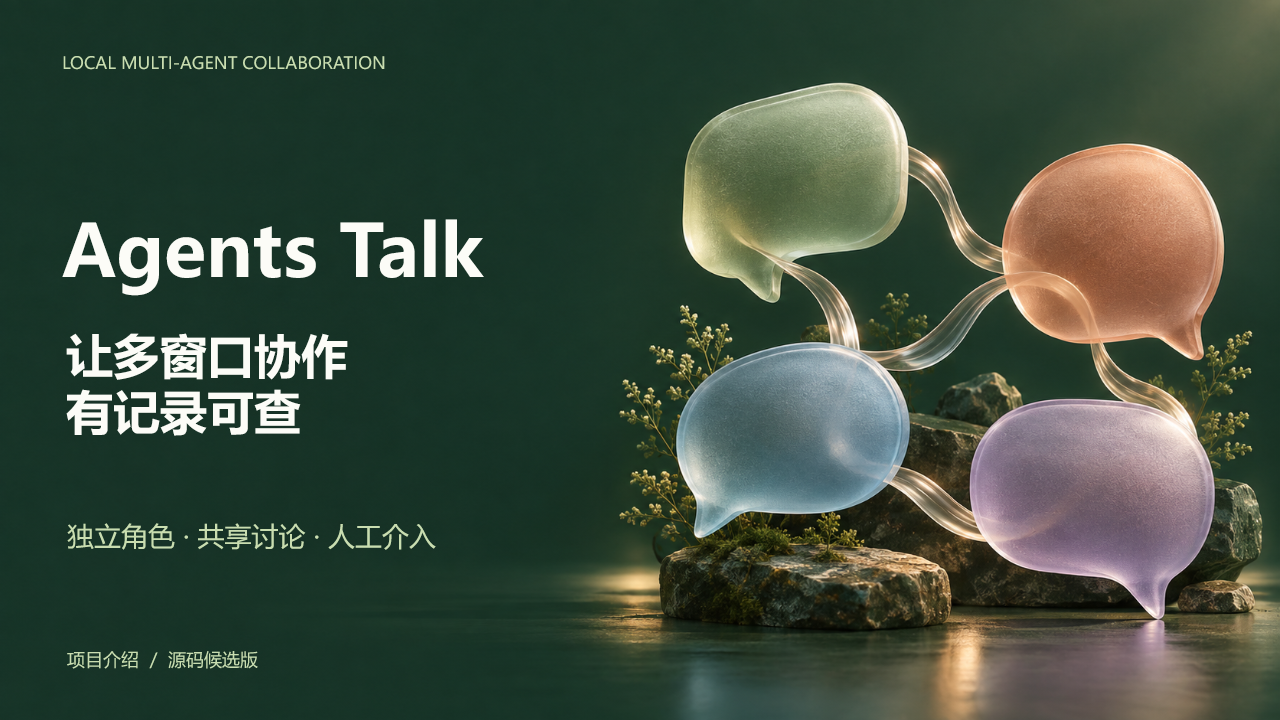
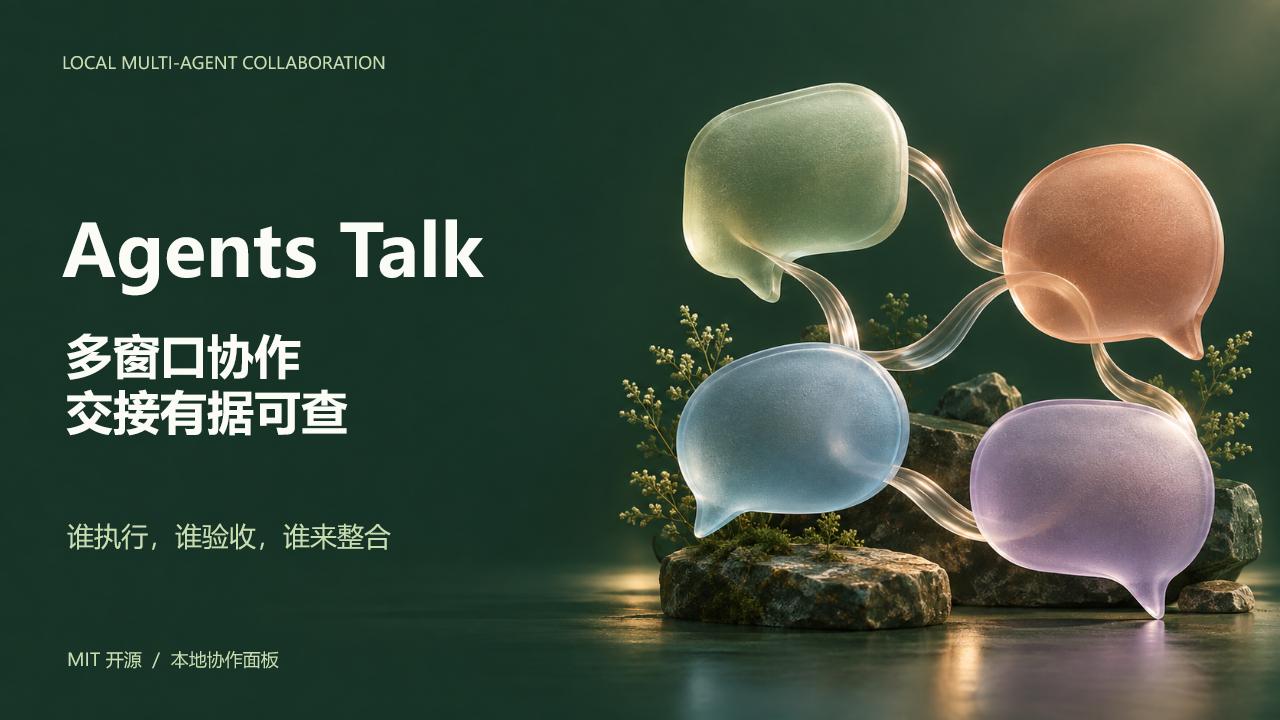
Prepare MIT public release with concise deck and reproducible promo video

Changed region(s): [[0.0312, 0.4583, 0.2812, 0.6111], [0.0312, 0.7028, 0.3438, 0.7639], [0.0625, 0.8861, 0.2188, 0.9472]]

diff --git a/docs/promo/timeline.js b/docs/promo/timeline.js
@@ -1,0 +1,43 @@
+/* Deterministic motion design. Real screenshots contain isolated demo data only. */
+'use strict';
+const canvas=document.querySelector('canvas'), main=canvas.getContext('2d');
+const W=1920,H=1080,DURATION=54;
+const C={white:'#edfff5',mint:'#baffd9',dim:'#94b8aa',ink:'#061712',blue:'#a2c8ff',purple:'#d9bfff'};
+const assets={};
+const clamp=v=>Math.max(0,Math.min(1,v));
+const smooth=v=>{v=clamp(v);return v*v*v*(v*(v*6-15)+10);};
+function text(g,value,x,y,size=40,color=C.white,weight=400){g.font=`${weight} ${size}px "Microsoft YaHei",sans-serif`;g.fillStyle=color;g.textBaseline='top';g.fillText(value,x,y);}
+function reveal(g,t,delay,fn){const a=smooth((t-delay)/1.1);g.save();g.globalAlpha*=a;g.translate(0,48*(1-a));fn();g.restore();}
+function base(g,t){g.fillStyle=C.ink;g.fillRect(0,0,W,H);const a=g.createRadialGradient(1420+80*Math.sin(t/6),320,60,1100,500,1150);a.addColorStop(0,'#164735');a.addColorStop(.55,'#0b241c');a.addColorStop(1,C.ink);g.fillStyle=a;g.fillRect(0,0,W,H);
+ g.save();g.strokeStyle='#89eabc';g.lineWidth=1;g.globalAlpha=.08;for(let i=0;i<15;i++){g.beginPath();g.ellipse(1480,420,180+i*60,100+i*36,-.42+t*.003,0,Math.PI*2);g.stroke();}g.restore();
+ for(let i=0;i<34;i++){g.fillStyle=`rgba(190,255,218,${.1+.12*(.5+.5*Math.sin(t+i))})`;g.beginPath();g.arc((i*137.8+73)%W,70+(i*79.3+t*(2+i%3))%940,1.2,0,7);g.fill();}
+}
+function brand(g,t,label){text(g,'AGENTS TALK',96,60,25,C.mint,700);text(g,label,1430,62,22,C.dim);g.fillStyle='#7dccaa';g.globalAlpha=.23;g.fillRect(96,998,1728,1);g.globalAlpha=1;g.fillStyle=C.mint;g.fillRect(96,998,1728*clamp(t/DURATION),2);}
+function footer(g,value){text(g,value,96,1024,21,C.dim);}
+function art(g,t,opacity=.55){g.save();g.globalAlpha*=opacity;const z=1.02+.025*Math.sin(t/8);g.translate(W/2,H/2);g.scale(z,z);g.drawImage(assets.art,-W/2,-H/2,W,H);g.restore();const v=g.createLinearGradient(0,0,W,0);v.addColorStop(0,'rgba(3,19,13,.78)');v.addColorStop(.56,'rgba(3,19,13,.35)');v.addColorStop(1,'rgba(3,19,13,.02)');g.fillStyle=v;g.fillRect(0,0,W,H);}
+function screen(g,img,x,y,w,h,t,crop){g.save();g.shadowColor='rgba(0,0,0,.6)';g.shadowBlur=65;g.shadowOffsetY=28;g.fillStyle='#ebf0e5';g.beginPath();g.roundRect(x,y,w,h,22);g.fill();g.shadowColor='transparent';g.clip();const z=1+.018*smooth(t/7);g.translate(x+w/2,y+h/2);g.scale(z,z);const c=crop||[0,0,img.width,img.height];g.drawImage(img,...c,-w/2,-h/2,w,h);g.restore();g.save();g.strokeStyle='rgba(194,255,220,.3)';g.lineWidth=2;g.beginPath();g.roundRect(x,y,w,h,22);g.stroke();g.restore();}
+function heading(g,t,tag,lines,sub){reveal(g,t,0,()=>text(g,tag,96,195,27,C.mint));lines.forEach((s,i)=>reveal(g,t,.12+i*.17,()=>text(g,s,96,262+i*90,72,C.white,700)));if(sub)reveal(g,t,.55,()=>text(g,sub,96,465,29,C.dim));}
+function row(g,t,delay,num,label,body,y,color=C.mint){reveal(g,t,delay,()=>{text(g,num,98,y,22,color);text(g,label,152,y-9,38,C.white,700);text(g,body,152,y+49,27,C.dim);});}
+const scenes=[
+ {start:0,end:6,draw(g,t){base(g,t);art(g,t,.38);brand(g,t,'LOCAL COLLABORATION');reveal(g,t,.1,()=>text(g,'开了多个 AI 窗口，',96,288,91,C.white,700));reveal(g,t,.55,()=>text(g,'谁在负责交接？',96,408,110,C.mint,700));reveal(g,t,1.7,()=>text(g,'任务重复分配',104,688,36,C.white));reveal(g,t,2.25,()=>text(g,'上下文来回复述',590,688,36,C.white));reveal(g,t,2.8,()=>text(g,'交付缺少验收',1136,688,36,C.white));footer(g,'面向多窗口协作的分工、上下文与验收问题');}},
+ {start:6,end:12,draw(g,t){base(g,t+6);brand(g,t+6,'ONE SHARED BOARD');reveal(g,t,0,()=>text(g,'Agents Talk',96,206,100,C.white,700));reveal(g,t,.25,()=>text(g,'一个本地协作面板',100,345,48,C.mint,700));reveal(g,t,.65,()=>text(g,'把共享过程留下来',100,440,34,C.dim));reveal(g,t,.4,()=>screen(g,assets.dashboard,790,178,1034,678,t));reveal(g,t,1,()=>text(g,'Codex   Claude Code',104,620,30,C.white));reveal(g,t,1.25,()=>text(g,'Reasonix   ZCode',104,675,30,C.white));footer(g,'实际空白会话界面，不读取原生客户端私密对话');}},
+ {start:12,end:20,draw(g,t){base(g,t+12);brand(g,t+12,'01 / INDEPENDENT ROLES');heading(g,t,'同一客户端，多窗口并发',['角色分开','责任明确']);row(g,t,.7,'01','主导窗口','拆分任务，安排最终整合',566);row(g,t,1.4,'02','实现窗口','处理自己的任务与文件范围',696);row(g,t,2.1,'03','验收窗口','核查交付与验证记录',826);reveal(g,t,.3,()=>screen(g,assets.instances,805,220,1010,702,t,[0,0,940,654]));footer(g,'隔离演示数据，未调用真实模型。每个窗口需单独接入，模型在客户端选择。');}},
+ {start:20,end:29,draw(g,t){base(g,t+20);brand(g,t+20,'02 / TRACEABLE HANDOFF');heading(g,t,'任务工作树',['谁执行','谁来验收']);row(g,t,.7,'01','派发可追溯','记录派发者与当前负责人',566);row(g,t,2,'02','交付要核查','指定独立验收人并记录结论',696);row(g,t,3.2,'03','整合有前置','依赖任务与整合计划一起呈现',826);reveal(g,t,.3,()=>screen(g,assets.workflow,760,220,1070,692,t));footer(g,'隔离演示数据，画面中的完成状态仅用于功能说明。任务工作树不创建 Git worktree。');}},
+ {start:29,end:37,draw(g,t){base(g,t+29);brand(g,t+29,'03 / HUMAN IN THE LOOP');heading(g,t,'全员对话窗口',['讨论集中看','要求随时加']);row(g,t,.8,'01','共享对话','各实例发布进展与交付摘要',588);row(g,t,2,'02','人工介入','追加要求，查看成员回执',738);reveal(g,t,.3,()=>screen(g,assets.conversation,760,220,1070,692,t));footer(g,'隔离演示数据。人工指令在成员下次读取时生效，无法即时中断外部工具。');}},
+ {start:37,end:45,draw(g,t){base(g,t+37);brand(g,t+37,'04 / CONTEXT ON DEMAND');heading(g,t,'上下文按需共享',['默认聚焦','需要再展开']);
+ const a=smooth((t-3)/1.35);g.save();g.globalAlpha=.35;g.strokeStyle=C.mint;g.lineWidth=2;g.beginPath();g.moveTo(900,440);g.bezierCurveTo(1200,440,1180,750,1530,750);g.stroke();g.restore();
+ reveal(g,t,.7,()=>{text(g,'默认范围',850,250,28,C.mint);text(g,'自己的任务',850,315,53,C.white,700);text(g,'与主导相关的信息',850,390,42,C.white);});
+ reveal(g,t,3,()=>{text(g,'开启全局共享后',1120,560,28,C.mint);text(g,'全队任务成果摘要',1120,630,48,C.white,700);text(g,'主导始终保留全队摘要',1120,711,29,C.dim);});
+ g.save();g.globalAlpha=a;g.shadowBlur=18;g.shadowColor=C.mint;g.fillStyle=C.mint;g.beginPath();g.arc(900+630*a,440+310*smooth(a),7,0,7);g.fill();g.restore();
+ reveal(g,t,1.1,()=>text(g,'增量读取，按需查证',98,640,34,C.mint));reveal(g,t,1.6,()=>text(g,'真实用量按实例记录',98,718,29,C.dim));footer(g,'机制示意。没有量化的 Token 节省承诺，已读取内容无法撤回。');}},
+ {start:45,end:54,draw(g,t){base(g,t+45);art(g,t+45,.6);brand(g,t+45,'MIT OPEN SOURCE');reveal(g,t,.1,()=>text(g,'Agents Talk',96,200,114,C.white,700));reveal(g,t,.4,()=>text(g,'让多窗口协作有记录可查',100,358,53,C.mint,700));reveal(g,t,.8,()=>text(g,'Python 3.10+ 与浏览器',102,493,31,C.white));reveal(g,t,1.15,()=>{text(g,'python hub.py doctor',104,558,37,C.mint);text(g,'python start.py',104,616,37,C.mint);});reveal(g,t,1.65,()=>text(g,'github.com/fffssss11/agents-talk',101,785,47,C.white,700));reveal(g,t,2.1,()=>text(g,'下载源码，按 README 安装 skill 并接入各窗口',104,859,30,C.dim));footer(g,'仅用于可信本机。模型和媒体工具由客户端提供，原生回合停止后可能需要重新接入。');}}
+];
+const buffers=[0,1].map(()=>{const c=document.createElement('canvas');c.width=W;c.height=H;return c;});
+function render(t){t=Math.max(0,Math.min(DURATION-1/60,t));let i=scenes.findIndex(s=>t>=s.start&&t<s.end);if(i<0)i=scenes.length-1;const current=scenes[i],local=t-current.start;main.globalAlpha=1;main.fillStyle=C.ink;main.fillRect(0,0,W,H);
+ if(i>0&&local<1.05){scenes[i-1].draw(buffers[0].getContext('2d'),t-scenes[i-1].start);current.draw(buffers[1].getContext('2d'),local);const a=smooth(local/1.05);main.drawImage(buffers[0],0,0);const edge=W*(1-a);main.save();main.beginPath();main.rect(edge,0,W-edge,H);main.clip();main.drawImage(buffers[1],0,0);main.restore();if(a>0&&a<1){const glow=main.createLinearGradient(edge-28,0,edge+28,0);glow.addColorStop(0,'rgba(186,255,217,0)');glow.addColorStop(.5,'rgba(186,255,217,.16)');glow.addColorStop(1,'rgba(186,255,217,0)');main.fillStyle=glow;main.fillRect(edge-28,0,56,H);}}else current.draw(main,local);
+ if(t<.65){main.fillStyle=`rgba(6,23,18,${1-smooth(t/.65)})`;main.fillRect(0,0,W,H);}
+ return t;
+}
+window.promo={duration:DURATION,render,ready:Promise.all(Object.entries({art:'concept-art.png',dashboard:'dashboard.png',instances:'instances-demo.png',workflow:'workflow-demo.png',conversation:'conversation-demo.png'}).map(([key,file])=>new Promise((resolve,reject)=>{const im=new Image();im.onload=()=>{assets[key]=im;resolve();};im.onerror=reject;im.src='../assets/'+file;}))).then(()=>document.fonts.ready).then(()=>render(48.5))};
+let playing=false,raf=0,start=0;document.querySelector('#play').onclick=()=>{playing=!playing;document.querySelector('#play').textContent=playing?'暂停预览':'播放预览';cancelAnimationFrame(raf);if(playing){start=performance.now();const tick=now=>{render((now-start)/1000);if(now-start<DURATION*1000)raf=requestAnimationFrame(tick);else{playing=false;document.querySelector('#play').textContent='重播预览';}};raf=requestAnimationFrame(tick);}};
+// Preview is paused by default, including when reduced motion is requested.

diff --git a/docs/promo/index.html b/docs/promo/index.html
@@ -1,0 +1,12 @@
+<!doctype html>
+<html lang="zh-CN">
+<meta charset="utf-8">
+<meta name="viewport" content="width=device-width,initial-scale=1">
+<title>Agents Talk · 宣传短片</title>
+<style>
+html,body{margin:0;background:#061712;color:#effff8;font-family:'Microsoft YaHei',sans-serif}body{min-height:100vh;display:grid;place-content:center}canvas{display:block;width:min(100vw,177.7778vh);height:auto}button{position:fixed;right:20px;bottom:20px;padding:10px 18px;background:#baffd9;color:#102a21;border:0;border-radius:24px;cursor:pointer}button:focus-visible{outline:3px solid white;outline-offset:4px}
+</style>
+<canvas width="1920" height="1080" aria-label="Agents Talk 功能演示，使用隔离数据，无真实模型调用"></canvas>
+<button id="play">播放预览</button>
+<script src="timeline.js"></script>
+</html>

diff --git a/tests/test_public_metadata.py b/tests/test_public_metadata.py
@@ -1,0 +1,37 @@
+"""Public release metadata checks, with no network or user data access."""
+import json
+from pathlib import Path
+import re
+import unittest
+
+ROOT = Path(__file__).resolve().parents[1]
+
+
+class PublicMetadataTests(unittest.TestCase):
+    def test_license_and_ci_gate(self):
+        self.assertIn('MIT License', (ROOT / 'LICENSE').read_text(encoding='utf-8'))
+        package = json.loads((ROOT / 'package.json').read_text(encoding='utf-8'))
+        self.assertEqual(package['license'], 'MIT')
+        self.assertNotIn('--allow-unlicensed', (ROOT / '.github/workflows/ci.yml').read_text(encoding='utf-8'))
+
+    def test_readme_version_and_public_links(self):
+        version = (ROOT / 'VERSION').read_text(encoding='utf-8').strip()
+        for name in ('README.md', 'README.en.md'):
+            text = (ROOT / name).read_text(encoding='utf-8')
+            self.assertIn(version, text)
+            self.assertIn('/releases/download/v' + version + '/', text)
+            self.assertIn('(LICENSE)', text)
+
+    def test_document_local_links_are_in_distribution(self):
+        names = set(json.loads((ROOT / 'release-files.json').read_text(encoding='utf-8')))
+        for name in sorted(n for n in names if n.endswith('.md')):
+            text = (ROOT / name).read_text(encoding='utf-8')
+            for target in re.findall(r'\]\(([^)\s]+)\)', text):
+                if re.match(r'[a-zA-Z]+:', target) or target.startswith('#'):
+                    continue
+                target = target.split('#')[0]
+                if not target:
+                    continue
+                resolved = (ROOT / name).parent.joinpath(target).resolve()
+                self.assertTrue(resolved.is_relative_to(ROOT), name)
+                self.assertIn(resolved.relative_to(ROOT).as_posix(), names, name)

diff --git a/tests/test_distribution.py b/tests/test_distribution.py
@@ -174,10 +174,19 @@ class DistributionTests(unittest.TestCase):
         with self.assertRaises(ValueError): release.inventory(self.project)
 
     def test_release_license_gate(self):
+        self.assertEqual(release.build(self.project)['license_status'], 'included')
         manifest = self.project / 'release-files.json'
         manifest.write_text(json.dumps([p for p in json.loads(manifest.read_text(encoding='utf-8')) if p != 'LICENSE']))
         with self.assertRaisesRegex(ValueError, 'No LICENSE'): release.build(self.project)
         self.assertEqual(release.build(self.project, allow_unlicensed=True)['license_status'], 'pending_owner_choice')
+
+    def test_release_rejects_inconsistent_license_metadata(self):
+        lock = self.project / 'package-lock.json'
+        data = json.loads(lock.read_text(encoding='utf-8'))
+        data['packages']['']['license'] = 'UNLICENSED'
+        lock.write_text(json.dumps(data), encoding='utf-8')
+        with self.assertRaisesRegex(ValueError, 'license metadata must agree'):
+            release.build(self.project)
 
     def test_release_rejects_inconsistent_version_metadata(self):
         package = self.project / 'package.json'

diff --git a/scripts/build_release.py b/scripts/build_release.py
@@ -58,6 +58,8 @@ def build(root, output=None, allow_unlicensed=False):
     licensed = 'LICENSE' in entries
     if licensed and (len(entries['LICENSE'].strip()) < 100 or package.get('license') in (None, '', 'UNLICENSED')):
         raise ValueError('Complete LICENSE and consistent package license metadata are required')
+    if licensed and lockfile['packages'][''].get('license') != package.get('license'):
+        raise ValueError('Package and lockfile license metadata must agree')
     if not licensed and not allow_unlicensed:
         raise ValueError('No LICENSE selected. Confirm it before publishing; --allow-unlicensed creates a private review candidate only.')
     files = [{'path': p, 'bytes': len(b), 'sha256': hashlib.sha256(b).hexdigest()} for p, b in entries.items()]

diff --git a/docs/release.md b/docs/release.md
@@ -1,46 +1,46 @@
 # 发布与验收
 
-## 当前状态
+## 当前版本
 
-`0.1.0-rc.2` 已上传至 [fffssss11/agents-talk](https://github.com/fffssss11/agents-talk)。仓库保持私有预发布状态，许可证及公开署名待项目所有者确认，当前不对外授予开源许可。
+`0.1.0-rc.3`，MIT 许可，公开预发布版。源码与演示材料位于 [GitHub Release](https://github.com/fffssss11/agents-talk/releases/tag/v0.1.0-rc.3)。保留预发布标记，便于收集原生客户端与不同设备的试用反馈。
 
-源码和项目介绍材料用于发布前审阅。确认许可证后需加入 LICENSE、同步 package 元数据和发布清单，重新打包，再转为公开。不得将私人候选包描述成已经授权的开源版本。
+运行程序沿用 rc.2。本版增加许可证一致性检查、公开项目元数据、文档链接回归，以及精简 PPT 和宣传视频。
 
 ## 实际验证
 
-2026-09-12 完成本轮验证。程序及启动脚本对应提交 `80772e5`，随后文档更新不改变这些程序文件。
+2026-09-12 本机 Windows 验证结果：
 
-| 环境或内容 | 结果 |
+| 内容 | 结果 |
 | --- | --- |
-| 本机 Windows，Python 3.13.5 | 89 项测试，88 项通过，1 项因符号链接权限限制跳过 |
-| GitHub Windows，Python 3.10 / 3.13 | 后端、安装、启动、诊断、源码清单和隐私检查通过 |
-| GitHub macOS / Ubuntu，Python 3.10 / 3.13 | 后端、安装、诊断、源码清单和隐私检查通过；Windows 专用测试跳过 |
-| 浏览器 | 本机 Chrome 与 GitHub Linux Chromium 的三套回归通过，含发送、人工控制、重连、窄屏、观察窗和同客户端多实例 |
-| 安装与干净副本 | 隔离 skill 目标验证预览、安装、重复安装和保守卸载；源码 ZIP 解压启动为零消息、零任务 |
-| 演示材料 | 12 页 PPTX 结构、版面、字体策略与重新导入检查通过；PPT/PDF 逐页检查，备注、链接、作者属性和附件检查未发现私人信息 |
+| Python 3.13.5 | 93 项测试，92 项通过，1 项因符号链接权限限制跳过 |
+| Chrome 浏览器 | 三套回归通过，含发送、人工控制、重连、窄屏、观察窗和同客户端多实例 |
+| 发布检查 | 精确清单、许可证、版本一致性、文档本地链接及静态隐私检查通过 |
+| PPT 与 PDF | 6 页，PPTX 结构、版面、字体和重新导入检查通过，逐页检查可见内容 |
 
-[通过的 GitHub CI 运行](https://github.com/fffssss11/agents-talk/actions/runs/34680493153) 含 7 个成功的 job。CI 使用托管环境，不能替代所有用户设备和原生客户端的验证。
+跨平台 CI 包含 Windows/macOS/Ubuntu 与 Python 3.10/3.13，以及 Linux Chromium 浏览器测试。前一版已有 [7 个 job 全部通过的记录](https://github.com/fffssss11/agents-talk/actions/runs/34680720373)。本版本最终提交与 CI 链接列在 Release 中，最新状态见 [Actions](https://github.com/fffssss11/agents-talk/actions)。配置本身不代表每次运行已经通过。
 
-审查中修复了英文 Windows 输出中文路径的编码错误；随后一次 Windows 启动测试超出原 35 秒测试预算。现已优先验证明确指定的 Python，服务就绪等待有计时边界并核对新进程 PID，失败时只清理本次子进程；测试保留所有原断言，并为互斥锁等待和共享运行器启动留出预算。复验全部通过。
+本机 Playwright 下载曾遇到 TLS 传输错误，测试改用已安装的 Chrome，没有关闭 TLS 校验。测试、截图和干净安装均使用独立目录，不写正式聊天。
 
-本机 Playwright Chromium 下载曾因 TLS 传输错误未完成，没有关闭 TLS 校验。本机浏览器测试使用已安装的 Chrome；GitHub Linux 成功安装并运行 Playwright Chromium。
+## 交付内容
 
-## 尚未验证或不提供的能力
+- 源码 ZIP，内含 `SOURCE-MANIFEST.json`，记录每个源码文件的 SHA-256。
+- ZIP 独立校验文件与全部附件的 `SHA256SUMS.txt`。
+- 6 页可编辑 PPTX，以及图像 PDF 阅读版。
+- 54 秒 1080p/60fps MP4，AAC 立体声，含原创合成配乐，无旁白。画面使用隔离演示截图，概念背景由 AI 生成。视频验证记录随 Release 列出。
 
-- 本轮未验证真实客户端中的 skill 发现、模型/API 调用、图片/视频生成效果或所有账户组合。文件安装成功不等于原生接入成功。
-- 没有压力测试、性能收益基准或第三方安全审计认证。长历史读取仍需推导事件，面向可信本机的小规模协作。
-- Windows 提供桌面快捷方式；macOS/Linux 使用前台入口，没有原生桌面安装包。
-- PPT 使用微软雅黑，其他设备可能替换字体。PDF 为图像阅读版。没有宣称在 PowerPoint 原生应用内验证。
+发布工具只读取 `release-files.json` 的精确文件，不遍历真实聊天、附件、成果、配置、安装版路径、依赖或备份。同一源码字节生成确定的 ZIP，工具拒绝覆盖已有归档。校验值检查文件一致性，不提供作者签名。
 
-## 发布包与隐私
+## 已知边界
 
-只收录 `release-files.json` 中精确列出的源码和公开演示图，不遍历工作目录。排除真实消息、附件、业务成果、本机配置、安装版路径、依赖、备份及诊断日志。本轮正式聊天日志和本机配置的校验值未发生变化。
+- 未覆盖所有原生客户端的 skill 发现、实际模型/API 调用、媒体生成或账户组合。安装文件成功仍需检查实际报到。
+- 不提供原生窗口自动创建、真实模型切换或回合停止后的自动唤醒保证。
+- 仅面向可信本机，缺少多租户认证、系统沙箱及本地加密。没有第三方安全审计或性能收益基准。
+- Windows 提供快捷方式，macOS/Linux 使用前台入口，均没有原生桌面安装包。
+- PPT 使用微软雅黑，接收端可能替换字体。PDF 与 MP4 已渲染文字。未在 PowerPoint 原生应用内验证。
 
-包内 `SOURCE-MANIFEST.json` 记录各源码文件的 SHA-256，包外校验文件记录 ZIP 和演示材料的摘要。固定 ZIP 时间戳，同一份源码字节生成一致的归档。校验值用于检查完整性，不构成作者签名。打包器拒绝覆盖已有 ZIP。
+## 复现
 
-## 复现发布检查
-
-遵循 [三轮发布检查](publication-checklist.md)，从独立干净目录操作：
+按 [发布检查清单](publication-checklist.md) 从干净副本运行：
 
 ```sh
 python -m unittest discover -s tests -v
@@ -49,4 +49,4 @@ python scripts/build_release.py --check
 python scripts/build_release.py
 ```
 
-许可证确认前，上述打包命令需显式添加 `--allow-unlicensed`，输出仅限私人审阅。确认后去掉该标记。运行面板不依赖 pip 或 npm；浏览器开发测试命令见 [贡献指南](../CONTRIBUTING.md)。
+浏览器测试见 [贡献指南](../CONTRIBUTING.md)，视频制作见 [分镜与复现](promo/README.md)。`--allow-unlicensed` 仅供未选择许可证的私人候选审阅，公开 CI 与正常发布不使用该参数。

diff --git a/README.en.md b/README.en.md
@@ -8,7 +8,11 @@ Features include shared discussions, task dependencies, file claims, human inter
 
 The board does not call model APIs, require API keys, select real models, open native conversations, or scrape private transcripts. Users invoke the installed skill in each native conversation. Client authentication, model availability and media tools remain the user's responsibility. File claims are cooperative, not an OS sandbox. Ended model turns are not automatically awakened.
 
-![Empty local dashboard, no simulated conversations](docs/assets/dashboard.png)
+[![54-second promotional video with isolated demonstration data](docs/assets/promo-poster.png)](https://github.com/fffssss11/agents-talk/releases/download/v0.1.0-rc.3/Agents-Talk-Promo-1080p60.mp4)
+
+[Download source ZIP](https://github.com/fffssss11/agents-talk/releases/download/v0.1.0-rc.3/agents-talk-0.1.0-rc.3.zip) · [Release assets](https://github.com/fffssss11/agents-talk/releases/tag/v0.1.0-rc.3)
+
+The video uses isolated demo screenshots with no real model calls, an AI-generated conceptual background and an original synthesized soundtrack.
 
 ## Run
 
@@ -52,8 +56,8 @@ Windows optionally provides `scripts/install.ps1` for skills plus a desktop shor
 
 Listen address is restricted to loopback. Do not expose the service through a proxy or tunnel. This is a trusted local-workstation tool, not a multi-user authentication boundary. See [SECURITY.md](SECURITY.md).
 
-This is `0.1.0-rc.2`. The [GitHub repository](https://github.com/fffssss11/agents-talk) is in private pre-release preparation while license and public attribution are confirmed. See [release notes](docs/release.md) for actual verification status.
+Version `0.1.0-rc.3` is a public pre-release under the [MIT License](LICENSE). See [release notes](docs/release.md) for actual verification status and remaining limitations.
 
 Never publish your working directory as an archive. `scripts/build_release.py` uses an exact source allowlist and excludes private data; it also checks common credential and personal-path patterns. Review the archive manually before publication.
 
-License selection is pending the project owner's confirmation. `--allow-unlicensed` produces a private review candidate only. No open-source license grant is currently made. Client names identify interoperability targets and do not imply affiliation or endorsement.
+Copyright (c) 2026 fffssss11. See [third-party notices](THIRD_PARTY_NOTICES.md). Client names identify interoperability targets and do not imply affiliation or endorsement.

diff --git a/docs/promo/README.md b/docs/promo/README.md
@@ -1,0 +1,38 @@
+# 宣传视频
+
+[观看或下载 MP4](https://github.com/fffssss11/agents-talk/releases/download/v0.1.0-rc.3/Agents-Talk-Promo-1080p60.mp4)
+
+54 秒，1920×1080，60 fps，H.264 视频与 AAC 立体声。文字直接呈现在画面中，无旁白。原创合成配乐带淡入淡出，未使用外部歌曲或声音采样。
+
+## 分镜
+
+| 时间 | 画面与内容 |
+| --- | --- |
+| 00:00 至 00:06 | 多窗口协作的交接问题，概念背景与动态标题 |
+| 00:06 至 00:12 | Agents Talk 面板，实际空白会话 |
+| 00:12 至 00:20 | 同客户端的主导、实现、验收窗口 |
+| 00:20 至 00:29 | 派发、独立验收与依赖整合工作树 |
+| 00:29 至 00:37 | 全员对话与人工要求 |
+| 00:37 至 00:45 | 聚焦与全局摘要机制示意 |
+| 00:45 至 00:54 | Python 启动步骤与 GitHub 下载入口 |
+
+功能依据为 [README](../../README.md) 和 [协议](../../PROTOCOL.md)。实际界面使用明确标注的隔离演示数据，概念背景由 AI 生成。没有真实模型调用或效率收益测量。截图动效属于剪辑，不表示各客户端的实时执行速度。
+
+## 修改与复现
+
+`timeline.js` 控制文案、场景时刻、五次缓动和界面推拉。浏览器预览默认暂停，点击按钮播放。`render.cjs` 按确定时间逐帧绘制，再交给 FFmpeg 编码，不启动 hub，不读取本机协作历史。
+
+需要 Node 20+、Playwright、浏览器与支持 `libx264`/AAC 的 FFmpeg。它们仅用于视频制作，用户运行面板无需这些工具。
+
+```sh
+npm ci
+npx playwright install chromium
+node docs/promo/render.cjs --stills
+node docs/promo/render.cjs
+```
+
+FFmpeg 默认从 PATH 查找，可用 `FFMPEG` 环境变量指定可执行文件。浏览器可用 `AGENTS_TALK_BROWSER` 指向本机 Chrome。Windows 渲染字体为微软雅黑，其他平台需安装合法可用的中文字体并调整字体配置，重新检查换行。
+
+`--stills` 只生成审阅帧与 `docs/assets/promo-poster.png`。完整渲染同时更新海报，输出 `dist/media/Agents-Talk-Promo-1080p60.mp4`。中间帧与配乐在 `.runtime/promo-build/`，不进入源码包。脚本拒绝覆盖已有 MP4，修订前保留旧版并选择新的输出名称。
+
+编码参数参考 [FFmpeg 文档](https://ffmpeg.org/ffmpeg.html)。素材与工具说明见 [THIRD_PARTY_NOTICES](../../THIRD_PARTY_NOTICES.md)。重新发布前检查完整视频、转场、音量、元数据及实际帧数，计算 SHA-256。

diff --git a/THIRD_PARTY_NOTICES.md b/THIRD_PARTY_NOTICES.md
@@ -1,0 +1,11 @@
+# 工具与素材说明
+
+项目源码及随附原创文档按 [MIT License](LICENSE) 分发。
+
+- Python 标准库运行时不随源码包捆绑。Node.js、Playwright 与浏览器仅用于开发测试或宣传素材渲染，适用各自的许可证。Playwright 锁定版本见 `package-lock.json`，上游为 [microsoft/playwright](https://github.com/microsoft/playwright)。
+- FFmpeg 仅用于可选视频编码，源码包不捆绑其程序或编解码器。请查阅所用构建的 [FFmpeg 许可说明](https://ffmpeg.org/legal.html)。
+- 项目演示截图来自独立临时会话，不含私人聊天。任务完成状态仅解释界面，不代表真实模型执行结果。
+- `docs/assets/concept-art.png` 为 AI 生成的概念背景。宣传封面复用该图，与真实界面截图分别标注。相关许可仅涵盖项目有权授予的内容。
+- 视频配乐由 `docs/promo/render.cjs` 合成，不使用采样、第三方歌曲或人声录音。脚本随项目许可分发。
+- PPT 与视频渲染使用本机微软雅黑，项目不捆绑字体文件。PPT 接收端缺少字体时可能替换，PDF 和 MP4 已渲染文字。
+- Codex、Claude Code、Reasonix、ZCode 等名称仅标识兼容对象，商标权属于各自权利人。MIT 许可不授予第三方商标权，也不表示官方关联或背书。
